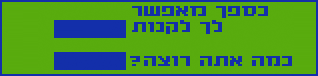
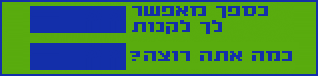
update text inout when number entered

Changed region(s): [[0.0849, 0.5526, 0.7642, 0.9211], [0.0849, 0.0789, 0.3962, 0.5], [0.7925, 0.6579, 0.934, 0.8684]]

diff --git a/SeaMerchantApp/src/com/example/seamerchant/scene/Buy.java b/SeaMerchantApp/src/com/example/seamerchant/scene/Buy.java
@@ -4,23 +4,24 @@ import org.andengine.entity.scene.Scene;
 import org.andengine.entity.sprite.ButtonSprite;
 import org.andengine.entity.sprite.ButtonSprite.OnClickListener;
 import org.andengine.entity.sprite.Sprite;
+import org.andengine.entity.text.Text;
+import org.andengine.opengl.font.Font;
 import org.andengine.opengl.texture.TextureOptions;
 import org.andengine.opengl.texture.atlas.bitmap.BitmapTextureAtlas;
 import org.andengine.opengl.texture.atlas.bitmap.BitmapTextureAtlasTextureRegionFactory;
 import org.andengine.opengl.texture.region.ITextureRegion;
 import org.andengine.opengl.texture.region.ITiledTextureRegion;
 import org.andengine.opengl.texture.region.TextureRegion;
+import org.andengine.opengl.vbo.DrawType;
 import org.andengine.ui.activity.SimpleBaseGameActivity;
-import org.andengine.util.debug.Debug;
 
 import com.example.seamerchant.andengine.AEUtils;
+import com.example.seamerchant.game.Game;
+import com.example.seamerchant.game.Item;
 import com.example.seamerchant.scene.NumKeyboard.OnNumKeyboardUpdateListener;
 
-public class Buy extends Main implements OnClickListener {
-	public static final int ITEM_WHEAT = 0;
-	public static final int ITEM_BRONZE = 1;
-	public static final int ITEM_OLIVES = 2;
-
+public class Buy extends Main implements OnClickListener, OnNumKeyboardUpdateListener {
+	private static final int MAX_CHARS = 7;
 	private TextureRegion mBgTextureRegion;
 	private BitmapTextureAtlas mItemTexture;
 	private ITiledTextureRegion mItemWheatTextureRegion;
@@ -30,34 +31,20 @@ public class Buy extends Main implements OnClickListener {
 	private Scene mItemsScene;
 	private NumKeyboard mNumKeyboard;
 	private Sprite mBuyInput;
-	
-	private OnNumKeyboardUpdateListener mNumKeyboardListener = new OnNumKeyboardUpdateListener() {
-		
-		@Override
-		public void onNumberUpdate(int num, NumKeyboard kb) {
-			Debug.d("Update - Num: "+num);
-		}
-		
-		@Override
-		public void onNumberEnter(int num, NumKeyboard kb) {
-			Debug.d("Enter - Num: "+num);
-		}
-		
-		@Override
-		public void onNumberEmpty(NumKeyboard kb) {
-			Debug.d("Empty - Num: ");
-
-		}
-	};
+	private int mQuantityLimit;
+	private Font mFont;
+	private Text mAvailableText;
+	private Text mQuantityText;
+	private Game mGame;
 	
 	public interface OnBuyItemListener {
 		void onBuyItem();
 	}
 	
-	
-	public Buy(SimpleBaseGameActivity baseActivity, SideBanner sideBanner, LowerBanner lowerBanner) {
+	public Buy(SimpleBaseGameActivity baseActivity, SideBanner sideBanner, LowerBanner lowerBanner, Game game) {
 		super(baseActivity, sideBanner, lowerBanner);
-		mNumKeyboard = new NumKeyboard(400, 25,baseActivity, mNumKeyboardListener);
+		mNumKeyboard = new NumKeyboard(400, 25,baseActivity, this);
+		mGame = game;
 	}
 
 	@Override
@@ -67,24 +54,27 @@ public class Buy extends Main implements OnClickListener {
 		mItemsScene.attachChild(backgroundSprite);
 
 		final ButtonSprite wheatTextItem = new ButtonSprite(427, 205, mItemWheatTextureRegion, getVertexBufferObjectManager(), this);
-		wheatTextItem.setTag(ITEM_WHEAT);
+		wheatTextItem.setTag(Item.WHEAT);
 		mItemsScene.registerTouchArea(wheatTextItem);
 		mItemsScene.attachChild(wheatTextItem);
 
 		final ButtonSprite bronzeTextItem = new ButtonSprite(424, 4, mItemBronzeTextureRegion, getVertexBufferObjectManager(), this);
-		bronzeTextItem.setTag(ITEM_BRONZE);
+		bronzeTextItem.setTag(Item.BRONZE);
 		mItemsScene.registerTouchArea(bronzeTextItem);
 		mItemsScene.attachChild(bronzeTextItem);
 		
 		final ButtonSprite oliveTextItem = new ButtonSprite(18, 4, mItemOlivesTextureRegion, getVertexBufferObjectManager(), this);
-		oliveTextItem.setTag(ITEM_OLIVES);
+		oliveTextItem.setTag(Item.OLIVES);
 		mItemsScene.registerTouchArea(oliveTextItem);
 		mItemsScene.attachChild(oliveTextItem);
 		
 		mItemsScene.setTouchAreaBindingOnActionDownEnabled(true);
 		
 		mBuyInput = new Sprite(75, 255, mBuyInputTextureRegion, getVertexBufferObjectManager());
-		
+	    mAvailableText = new Text(110, 258, mFont, "0", MAX_CHARS, getVertexBufferObjectManager(), DrawType.DYNAMIC);
+	    mQuantityText = new Text(110, 295, mFont, "0", MAX_CHARS, getVertexBufferObjectManager(), DrawType.DYNAMIC);
+
+	    
 		mNumKeyboard.loadScene();
 		
 		return mItemsScene;
@@ -105,6 +95,8 @@ public class Buy extends Main implements OnClickListener {
 		mBgTextureRegion.getTexture().load();
 		mItemTexture.load();
 		mNumKeyboard.loadResources();
+		mFont = AEUtils.createGameFont(mBaseActivity);
+	    mFont.load();
 	}
 
 	@Override
@@ -118,10 +110,34 @@ public class Buy extends Main implements OnClickListener {
 	public void onClick(ButtonSprite pButtonSprite, float pTouchAreaLocalX, float pTouchAreaLocalY) {
 		//int tag = pButtonSprite.getTag();
 		pButtonSprite.setCurrentTileIndex(1);
+		int itemId = pButtonSprite.getTag();
+		Item item = mGame.getCurrentLocation().getItem(itemId);
+		mQuantityLimit = item.getCount();
+		mAvailableText.setText(item.getCount() + "");
 		mItemsScene.attachChild(mBuyInput);
+		mItemsScene.attachChild(mAvailableText);
+		mItemsScene.attachChild(mQuantityText);
 		mItemsScene.setChildScene(mNumKeyboard.getScene());
 
 	}
 
+	@Override
+	public boolean onNumberUpdate(Integer num, NumKeyboard kb) {
+		if (num == null) {
+			mQuantityText.setText("0");
+			return false;
+		}
+		if (num <= mQuantityLimit) {
+			mQuantityText.setText(num + "");
+			return true;
+		}
+		return false;
+	}
+
+	@Override
+	public void onNumberEnter(Integer num, NumKeyboard kb) {
+		// TODO Auto-generated method stub
+		
+	}
 
 }

diff --git a/SeaMerchantApp/src/com/example/seamerchant/scene/NumKeyboard.java b/SeaMerchantApp/src/com/example/seamerchant/scene/NumKeyboard.java
@@ -39,9 +39,8 @@ public class NumKeyboard extends Base implements OnClickListener {
 	private int mOffsetY;
 	
 	public interface OnNumKeyboardUpdateListener {
-		void onNumberUpdate(int num, NumKeyboard kb);
-		void onNumberEnter(int num, NumKeyboard kb);
-		void onNumberEmpty(NumKeyboard kb);
+		boolean onNumberUpdate(Integer num, NumKeyboard kb);
+		void onNumberEnter(Integer num, NumKeyboard kb);
 	}
 
 	public NumKeyboard(int x, int y, SimpleBaseGameActivity baseActivity, OnNumKeyboardUpdateListener listener) {
@@ -130,6 +129,9 @@ public class NumKeyboard extends Base implements OnClickListener {
 			if (mCurrentNumber.length() > 0) {
 				mListener.onNumberEnter(Integer.parseInt(mCurrentNumber.toString()), this);
 				this.detachSelf();
+			} else {
+				mListener.onNumberEnter(null, this);
+				this.detachSelf();
 			}
 			return;
 		}
@@ -139,14 +141,16 @@ public class NumKeyboard extends Base implements OnClickListener {
 				if (mCurrentNumber.length() > 0) {
 					mListener.onNumberUpdate(Integer.parseInt(mCurrentNumber.toString()), this);
 				} else {
-					mListener.onNumberEmpty(this);
+					mListener.onNumberUpdate(null, this);
 				}
 			}
 			return;
 		}
 		if (mCurrentNumber.length() < MAX_LENGTH_NUM) {
 			mCurrentNumber.append(tag);
-			mListener.onNumberUpdate(Integer.parseInt(mCurrentNumber.toString()), this);
+			if (!mListener.onNumberUpdate(Integer.parseInt(mCurrentNumber.toString()), this)) {
+				mCurrentNumber.deleteCharAt(mCurrentNumber.length() - 1);
+			}
 		}
 	}
 

diff --git a/SeaMerchantApp/src/com/example/seamerchant/game/Game.java b/SeaMerchantApp/src/com/example/seamerchant/game/Game.java
@@ -15,7 +15,6 @@ public class Game {
 	private Location mLocTurkey;
 	private Location mLocEgypt;
 	private Weather mWeather;
-	
 	private int mStormyWeather = 0;
 
 	private OnGameChangeListener mListener;
@@ -97,6 +96,10 @@ public class Game {
 
 	public int getCurrentDay() {
 		return mCurrentDay;
+	}
+	
+	public Location getCurrentLocation() {
+		return getLocation(mPlayer.getLocation());
 	}
 	
 	public void nextDay() {

diff --git a/SeaMerchantApp/src/com/example/seamerchant/SceneManager.java b/SeaMerchantApp/src/com/example/seamerchant/SceneManager.java
@@ -119,7 +119,7 @@ public class SceneManager implements OnOptionClickListener, OnGameChangeListener
 
 
 	private void startBuyScene() {
-		final Buy buy = new Buy(mBaseActivity, mSideBanner, mLowerBanner);
+		final Buy buy = new Buy(mBaseActivity, mSideBanner, mLowerBanner, mGame);
 		buy.loadResourcesAndScene();
 		mEngine.setScene(buy.getScene());
 	}

diff --git a/SeaMerchantApp/src/com/example/seamerchant/game/PricedItem.java b/SeaMerchantApp/src/com/example/seamerchant/game/PricedItem.java
@@ -21,6 +21,7 @@ public class PricedItem extends Item{
 	public PricedItem(int type, int price) {
 		super(type);
 		this.price = price;
+		this.count = 100;//TODO init counter
 	}
 
 	

diff --git a/SeaMerchantApp/src/com/example/seamerchant/game/Location.java b/SeaMerchantApp/src/com/example/seamerchant/game/Location.java
@@ -1,6 +1,5 @@
 package com.example.seamerchant.game;
 
-import java.util.Random;
 
 public class Location {
 	
